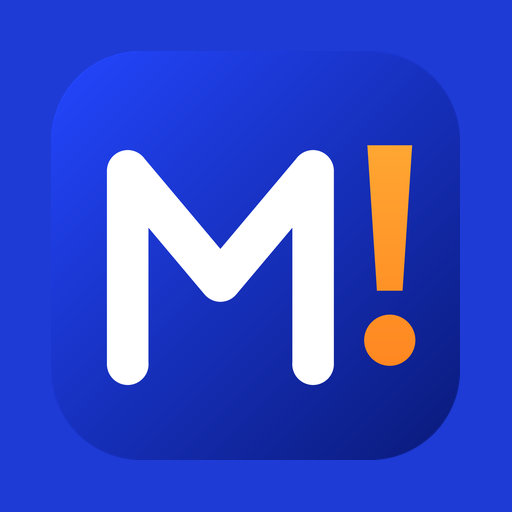
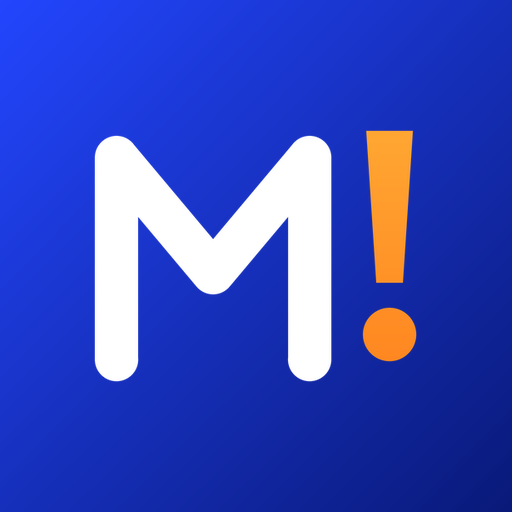
İkon: Play Store için tam kare 512, Android uyarlanabilir ikon tek katman (kutu içinde kutu yok), PWA maskable güvenli alanda [apk]
Claude-Session: https://claude.ai/code/session_01KxpEpsPsCSuTScFNFrXxzM

diff --git a/sw.js b/sw.js
@@ -1,5 +1,5 @@
 // MustaFaktoriyel Odak - service worker
-var SURUM = 'mf-odak-v169';
+var SURUM = 'mf-odak-v170';
 var DOSYALAR = ['./', './index.html', './manifest.webmanifest', './icon-192.png', './icon-512.png', './icon-maskable-512.png', './apple-touch-icon.png', './css/uygulama.css', './js/00-android.js', './js/01-sayac.js', './js/02-mantik.js', './js/03-geri-tusu.js', './js/04-yedek.js', './js/05-kutuphane.js', './js/06-program-sablon.js', './js/07-sinif-sinav.js', './js/08-tablet.js', './js/09-kisayol.js', './js/10-mola-hatirlat.js', './js/11-elle-ekle.js', './js/12-bildirim.js', './js/13-koc-mesaj.js', './js/14-sayac-katla.js', './js/15-asagi-kapat.js', './js/izinde-secim.js', './js/17-izinde-gorsel.js', './js/18-izinde.js', './js/19-kadranlar.js', './js/20-ayarlar.js', './js/21-secim.js', './veri/izinde/harita.svg', './img/eser/d01.svg', './img/eser/d01.webp', './lib/katex/katex.min.js', './lib/katex/katex.min.css', './veri/izinde/duraklar.json', './veri/izinde/mufredat.json', './veri/izinde/rota.json', './veri/izinde/sorular-10.json', './veri/izinde/sorular-11.json', './veri/izinde/sorular-12.json', './veri/izinde/sorular-5.json', './veri/izinde/sorular-6.json', './veri/izinde/sorular-7.json', './veri/izinde/sorular-8.json', './veri/izinde/sorular-9.json', './veri/izinde/sorular-Mezun.json', './lib/katex/fonts/KaTeX_AMS-Regular.woff2', './lib/katex/fonts/KaTeX_Caligraphic-Bold.woff2', './lib/katex/fonts/KaTeX_Caligraphic-Regular.woff2', './lib/katex/fonts/KaTeX_Fraktur-Bold.woff2', './lib/katex/fonts/KaTeX_Fraktur-Regular.woff2', './lib/katex/fonts/KaTeX_Main-Bold.woff2', './lib/katex/fonts/KaTeX_Main-BoldItalic.woff2', './lib/katex/fonts/KaTeX_Main-Italic.woff2', './lib/katex/fonts/KaTeX_Main-Regular.woff2', './lib/katex/fonts/KaTeX_Math-BoldItalic.woff2', './lib/katex/fonts/KaTeX_Math-Italic.woff2', './lib/katex/fonts/KaTeX_SansSerif-Bold.woff2', './lib/katex/fonts/KaTeX_SansSerif-Italic.woff2', './lib/katex/fonts/KaTeX_SansSerif-Regular.woff2', './lib/katex/fonts/KaTeX_Script-Regular.woff2', './lib/katex/fonts/KaTeX_Size1-Regular.woff2', './lib/katex/fonts/KaTeX_Size2-Regular.woff2', './lib/katex/fonts/KaTeX_Size3-Regular.woff2', './lib/katex/fonts/KaTeX_Size4-Regular.woff2', './lib/katex/fonts/KaTeX_Typewriter-Regular.woff2'];
 
 self.addEventListener('install', function (e) {

diff --git a/tasarim/ikon/uret.py b/tasarim/ikon/uret.py
@@ -1,0 +1,34 @@
+import numpy as np, math
+from PIL import Image
+coef=np.load('coef.npy');g=Image.open('glyph.png')
+def zemin(N):
+    yy,xx=np.mgrid[0:N,0:N].astype(float);x=xx*511/(N-1);y=yy*511/(N-1)
+    F=np.stack([np.ones_like(x),x,y,x**2,y**2,x*y],-1)
+    return Image.fromarray(np.clip(np.stack([F@coef[c] for c in range(3)],-1),0,255).astype(np.uint8),'RGB').convert('RGBA')
+def koy(tuval,olcek,merkez=None):
+    w,h=round(g.width*olcek),round(g.height*olcek);gg=g.resize((w,h),Image.LANCZOS)
+    N=tuval.width;cx,cy=merkez or (N/2,N/2);tuval.alpha_composite(gg,(round(cx-w/2),round(cy-h/2)));return tuval
+O='../../'
+# 1) Play Store: 512 tam kare, logo eski ikondaki yerinde/boyunda
+p=zemin(512);p.alpha_composite(g,(69,117));p.convert('RGB').save(O+'play-ikon-512.png')
+# 2) PWA maskable: logo %80 güvenli dairenin içinde
+r=0.80*512/math.hypot(g.width,g.height);koy(zemin(512),r).convert('RGB').save(O+'icon-maskable-512.png')
+# 3) Android uyarlanabilir: 432px (108dp@4x); ön katman şeffaf, logo 66dp güvenli dairede
+N=432;on=Image.new('RGBA',(N,N),(0,0,0,0));koy(on,(66/108*N)/math.hypot(g.width,g.height))
+import os;d=O+'android-ayar/res/drawable-nodpi/';os.makedirs(d,exist_ok=True)
+on.save(d+'mf_ikon_on.png');zemin(N).convert('RGB').save(d+'mf_ikon_zemin.png')
+# önizleme: daire, yuvarlatılmış kare, play maskesi
+def maske(im,tip):
+    N=im.width;m=Image.new('L',(N,N),0);from PIL import ImageDraw;D=ImageDraw.Draw(m)
+    if tip=='daire':D.ellipse((0,0,N-1,N-1),fill=255)
+    else:D.rounded_rectangle((0,0,N-1,N-1),radius=int(N*0.22),fill=255)
+    o=Image.new('RGBA',(N,N),(0,0,0,0));o.paste(im,(0,0),m);return o
+ad=zemin(N);ad.alpha_composite(on);gor=ad.crop((N*18//108,N*18//108,N*90//108,N*90//108)).resize((240,240))  # 72dp görünür alan
+pl=p.resize((240,240))
+on_=Image.new('RGBA',(1040,300),(238,240,246,255))
+for i,(im,t) in enumerate([(gor,'daire'),(gor,'kare'),(pl,'kare'),(zemin(512).resize((240,240)),'')]):
+    pass
+x=20
+for im,t in [(gor,'daire'),(gor,'kare'),(pl,'kare'),(Image.open(O+'icon-maskable-512.png').convert('RGBA').resize((240,240)),'daire')]:
+    k=maske(im,t);on_.alpha_composite(k,(x,30));s=k.resize((48,48));on_.alpha_composite(s,(x+96,280-8-48+8));x+=255
+on_.save('onizleme.png')

diff --git a/tasarim/ikon/yap.py b/tasarim/ikon/yap.py
@@ -1,0 +1,21 @@
+import numpy as np
+from PIL import Image
+src=np.array(Image.open('../../icon-512.png').convert('RGBA')).astype(float)
+H,W=src.shape[:2];yy,xx=np.mgrid[0:H,0:W]
+bgmask=(src[:,:,3]>250)&(src[:,:,0]<70)
+# arka plan: her kanal için düzlem + karesel uyum
+A=np.stack([np.ones(bgmask.sum()),xx[bgmask],yy[bgmask],xx[bgmask]**2,yy[bgmask]**2,xx[bgmask]*yy[bgmask]],1)
+coef=[np.linalg.lstsq(A,src[:,:,c][bgmask],rcond=None)[0] for c in range(3)]
+def bg(x,y):
+    F=np.stack([np.ones_like(x),x,y,x**2,y**2,x*y],-1);return np.stack([F@coef[c] for c in range(3)],-1)
+B=bg(xx.astype(float),yy.astype(float))
+# alfa: kırmızı kanaldan (beyaz ve turuncu r=255)
+al=np.clip((src[:,:,0]-B[:,:,0])/(255-B[:,:,0]),0,1)*(src[:,:,3]/255)
+al[al<0.02]=0
+col=np.zeros((H,W,3))
+nz=al>0.02
+col[nz]=np.clip((src[:,:,:3][nz]-(1-al[nz,None])*B[nz])/al[nz,None],0,255)
+glyph=np.dstack([col,al*255]).astype(np.uint8)
+g=Image.fromarray(glyph,'RGBA');bb=g.getbbox();print('bbox',bb);g=g.crop(bb);g.save('glyph.png')
+print('bg corners',bg(np.array([0.,511]),np.array([0.,511])))
+np.save('coef.npy',np.array(coef))
